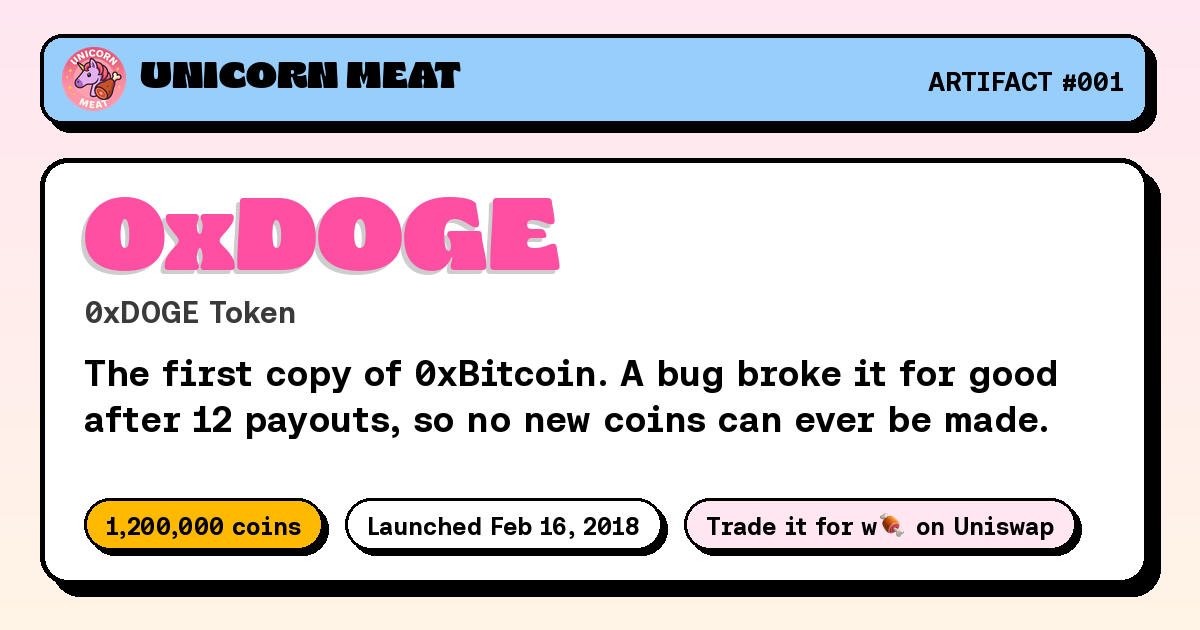
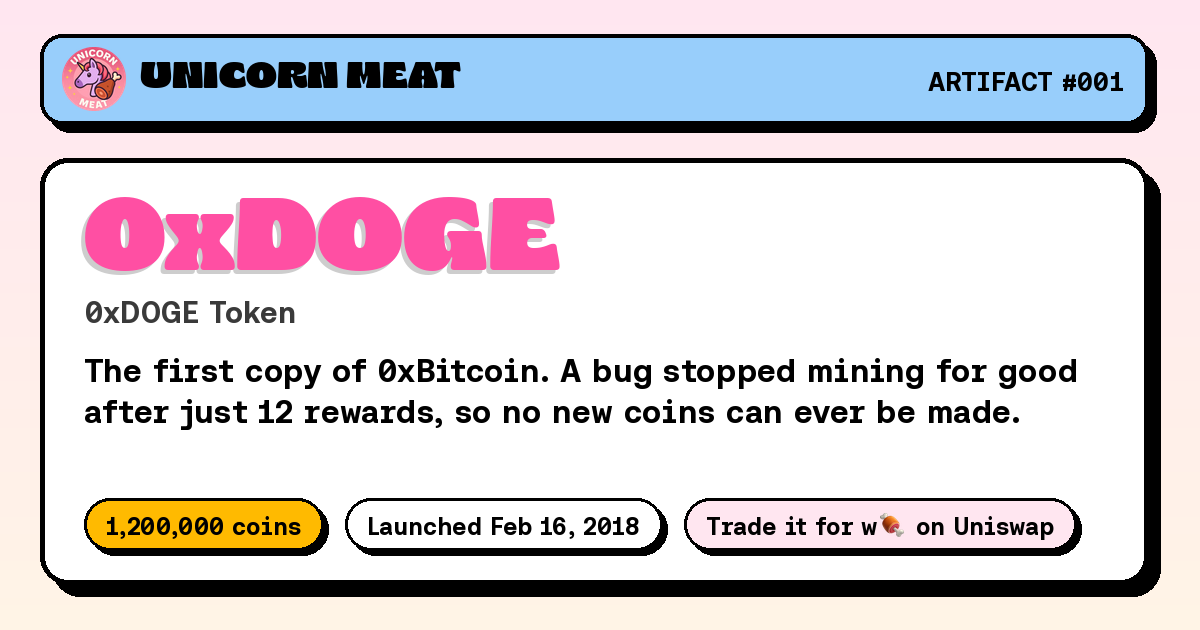
Artifacts: use mining language for 0xDOGE, not "payouts"
The 12 are mining rewards (successful mint() calls). Verified onchain:
12 Mint events in 12 separate transactions (epochs 2-13, matching
epochCount() = 13), so none were batched into one transaction.
Adds a "Reward per mine: 100,000 coins" fact.

Changed region(s): [[0.0617, 0.573, 0.8942, 0.6937]]

diff --git a/artifacts/0xdoge.html b/artifacts/0xdoge.html
@@ -9,15 +9,15 @@
     <link rel="icon" type="image/png" href="/assets/favicon.ico" />
     <link rel="canonical" href="https://unicornmeateth.com/artifacts/0xdoge" />
     <link rel="alternate" type="text/plain" href="https://unicornmeateth.com/llms.txt" title="LLM Information" />
-    <meta name="description" content="The first copy of 0xBitcoin. A bug broke it for good after 12 payouts, so no new coins can ever be made. 0xDOGE Token (0xDOGE), launched Feb 16, 2018. Trade it for w🍖 on Uniswap.">
+    <meta name="description" content="The first copy of 0xBitcoin. A bug stopped mining for good after just 12 rewards, so no new coins can ever be made. 0xDOGE Token (0xDOGE), launched Feb 16, 2018. Trade it for w🍖 on Uniswap.">
     <meta name="theme-color" content="#FFBA00">
     <meta property="og:locale" content="en_US">
     <meta property="og:type" content="article">
     <meta property="og:title" content="0xDOGE · Unicorn Meat Artifacts">
-    <meta property="og:description" content="The first copy of 0xBitcoin. A bug broke it for good after 12 payouts, so no new coins can ever be made. 0xDOGE Token (0xDOGE), launched Feb 16, 2018. Trade it for w🍖 on Uniswap.">
+    <meta property="og:description" content="The first copy of 0xBitcoin. A bug stopped mining for good after just 12 rewards, so no new coins can ever be made. 0xDOGE Token (0xDOGE), launched Feb 16, 2018. Trade it for w🍖 on Uniswap.">
     <meta property="og:url" content="https://unicornmeateth.com/artifacts/0xdoge">
     <meta property="og:site_name" content="Unicorn Meat 🍖">
-    <meta property="og:image" content="https://unicornmeateth.com/assets/images/artifacts/0xdoge-og.png?v=bae175a715">
+    <meta property="og:image" content="https://unicornmeateth.com/assets/images/artifacts/0xdoge-og.png?v=877d219a05">
     <meta property="og:image:width" content="1200">
     <meta property="og:image:height" content="630">
     <meta property="og:image:type" content="image/png">
@@ -26,8 +26,8 @@
     <meta name="twitter:site" content="@UnicornMeatETH">
     <meta name="twitter:creator" content="@UnicornMeatETH">
     <meta name="twitter:title" content="0xDOGE · Unicorn Meat Artifacts">
-    <meta name="twitter:description" content="The first copy of 0xBitcoin. A bug broke it for good after 12 payouts, so no new coins can ever be made. 0xDOGE Token (0xDOGE), launched Feb 16, 2018. Trade it for w🍖 on Uniswap.">
-    <meta name="twitter:image" content="https://unicornmeateth.com/assets/images/artifacts/0xdoge-og.png?v=bae175a715">
+    <meta name="twitter:description" content="The first copy of 0xBitcoin. A bug stopped mining for good after just 12 rewards, so no new coins can ever be made. 0xDOGE Token (0xDOGE), launched Feb 16, 2018. Trade it for w🍖 on Uniswap.">
+    <meta name="twitter:image" content="https://unicornmeateth.com/assets/images/artifacts/0xdoge-og.png?v=877d219a05">
     <script src="/assets/js/app-head-bs.js"></script>
     <link rel="stylesheet" href="/assets/js/uni-core/css/uni-core.min.css">
     <link rel="stylesheet" href="/assets/css/unicons.min.css">
@@ -42,7 +42,7 @@
   "@type": "WebPage",
   "url": "https://unicornmeateth.com/artifacts/0xdoge",
   "name": "0xDOGE Token (0xDOGE)",
-  "description": "The first copy of 0xBitcoin. A bug broke it for good after 12 payouts, so no new coins can ever be made.",
+  "description": "The first copy of 0xBitcoin. A bug stopped mining for good after just 12 rewards, so no new coins can ever be made.",
   "isPartOf": {
     "@id": "https://unicornmeateth.com/#website"
   },
@@ -158,7 +158,7 @@
                         <a class="artifact-pill" href="/artifacts">🏺 Artifact #001 · Trade it for w🍖</a>
                         <h1 class="h2 sm:h1 xl:display-6 m-0 ls-0"><span class="artifact-title">0xDOGE</span></h1>
                         <p class="fs-6 fw-bold text-uppercase m-0 artifact-subtitle">0xDOGE Token</p>
-                        <p class="fs-5 xl:fs-4 text-dark m-0">The first copy of 0xBitcoin. A bug broke it for good after 12 payouts, so no new coins can ever be made.</p>
+                        <p class="fs-5 xl:fs-4 text-dark m-0">The first copy of 0xBitcoin. A bug stopped mining for good after just 12 rewards, so no new coins can ever be made.</p>
                         <div class="hstack flex-wrap justify-center gap-2 mt-2">
                             <a class="btn btn-md btn-secondary border border-2 border-black contrast-shadow-sm -rotate-1 hover:rotate-0 fw-bold" href="https://app.uniswap.org/swap?inputCurrency=ETH&amp;outputCurrency=0x0d8bB998900AbDB60D7414145e1c542C2CF4e7A9" target="_blank" rel="noopener">Trade on Uniswap ↗</a>
                             <a class="btn btn-md btn-white border border-2 border-black contrast-shadow-sm rotate-1 hover:rotate-0" href="https://www.ethereumhistory.com/contract/0x0d8bb998900abdb60d7414145e1c542c2cf4e7a9" target="_blank" rel="noopener">Ethereum History ↗</a>
@@ -204,8 +204,8 @@
                             <div class="col">
                                 <div class="panel p-4 sm:p-5 border border-2 border-black contrast-shadow-lg bg-white h-100 -rotate-1">
                                     <h2 class="h5 sm:h4 mb-3 text-uppercase">The story</h2>
-                                <p class="fs-6 mb-3">0xDOGE launched on February 16, 2018, just 10 days after 0xBitcoin. 0xBitcoin was a coin on Ethereum that people earned by having their computers solve math puzzles, the same way Bitcoin works. 0xDOGE was the first copy of it.</p>
-                                <p class="fs-6 mb-3">Its code had two mistakes: one in how rewards were calculated, and one in a built-in limit that tripped over itself. Together they made 0xDOGE stop working forever after only 12 payouts. Nobody can earn new coins from it, and nobody ever will.</p>
+                                <p class="fs-6 mb-3">0xDOGE launched on February 16, 2018, just 10 days after 0xBitcoin. 0xBitcoin was a coin on Ethereum that people earned by having their computers solve math puzzles, the same way Bitcoin works. This is called mining: every solved puzzle earns a mining reward of new coins. 0xDOGE was the first copy of it.</p>
+                                <p class="fs-6 mb-3">Its code had two mistakes: one in how mining rewards were calculated, and one in a built-in limit that tripped over itself. Together they stopped mining for good after just 12 successful mines. Nobody can mine new coins from it, and nobody ever will.</p>
                                 <p class="fs-6 mb-3">That left exactly 1.2 million coins in existence, with no way to make more. 0xDOGE was the first coin of its kind on Ethereum to permanently break itself.</p>
                                     <p class="fs-7 mb-0"><a class="fw-bold" href="https://www.ethereumhistory.com/contract/0x0d8bb998900abdb60d7414145e1c542c2cf4e7a9" target="_blank" rel="noopener">Full history on Ethereum History ↗</a></p>
                                 </div>
@@ -218,7 +218,8 @@
                                     <tr><th scope="row">Contract address</th><td>0x0d8bB998900AbDB60D7414145e1c542C2CF4e7A9</td></tr>
                                     <tr><th scope="row">Ticker</th><td>0xDOGE</td></tr>
                                     <tr><th scope="row">Launched</th><td>Feb 16, 2018</td></tr>
-                                    <tr><th scope="row">Times coins were paid out</th><td>12</td></tr>
+                                    <tr><th scope="row">Successful mines</th><td>12</td></tr>
+                                    <tr><th scope="row">Reward per mine</th><td>100,000 coins</td></tr>
                                     <tr><th scope="row">Coins that exist</th><td>1,200,000</td></tr>
                                     <tr><th scope="row">Supply shown on Etherscan</th><td>9 trillion, a limit it will never reach</td></tr>
                                         </tbody>
@@ -229,7 +230,7 @@
                         <div class="vstack items-center gap-3 mt-6 text-center">
                             <div class="hstack flex-wrap justify-center gap-2">
                                 <a class="btn btn-md btn-secondary border border-2 border-black contrast-shadow-sm fw-bold" href="https://app.uniswap.org/swap?inputCurrency=ETH&amp;outputCurrency=0x0d8bB998900AbDB60D7414145e1c542C2CF4e7A9" target="_blank" rel="noopener">Trade 0xDOGE on Uniswap ↗</a>
-                                <a class="btn btn-md btn-white border border-2 border-black contrast-shadow-sm" href="https://twitter.com/intent/tweet?text=0xDOGE%3A%20The%20first%20copy%20of%200xBitcoin.%20A%20bug%20broke%20it%20for%20good%20after%2012%20payouts%2C%20so%20no%20new%20coins%20can%20ever%20be%20made.%20A%20w%F0%9F%8D%96%20Artifact.&amp;url=https%3A%2F%2Funicornmeateth.com%2Fartifacts%2F0xdoge" target="_blank" rel="noopener">Share on X</a>
+                                <a class="btn btn-md btn-white border border-2 border-black contrast-shadow-sm" href="https://twitter.com/intent/tweet?text=0xDOGE%3A%20The%20first%20copy%20of%200xBitcoin.%20A%20bug%20stopped%20mining%20for%20good%20after%20just%2012%20rewards%2C%20so%20no%20new%20coins%20can%20ever%20be%20made.%20A%20w%F0%9F%8D%96%20Artifact.&amp;url=https%3A%2F%2Funicornmeateth.com%2Fartifacts%2F0xdoge" target="_blank" rel="noopener">Share on X</a>
                                 <a class="btn btn-md btn-white border border-2 border-black contrast-shadow-sm" href="/artifacts">All artifacts</a>
                             </div>
                             <p class="fs-7 text-muted m-0 max-w-600px">Old coins like this don't trade often, so the price can jump around. Double-check the contract address before you trade. Not financial advice.</p>

diff --git a/artifacts/index.html b/artifacts/index.html
@@ -169,7 +169,7 @@
                                     <span class="fs-7 fw-bold text-uppercase text-muted">Artifact #001 · Feb 16, 2018</span>
                                     <span class="h3 m-0 artifact-title">0xDOGE</span>
                                     <span class="fs-7 fw-bold text-uppercase">0xDOGE Token</span>
-                                    <span class="fs-6 text-dark">The first copy of 0xBitcoin. A bug broke it for good after 12 payouts, so no new coins can ever be made.</span>
+                                    <span class="fs-6 text-dark">The first copy of 0xBitcoin. A bug stopped mining for good after just 12 rewards, so no new coins can ever be made.</span>
                                     <span class="hstack justify-between items-center mt-auto pt-2">
                                         <span class="artifact-chip" style="background:#ffba00">1,200,000 coins</span>
                                         <span class="fw-bold">View →</span>
